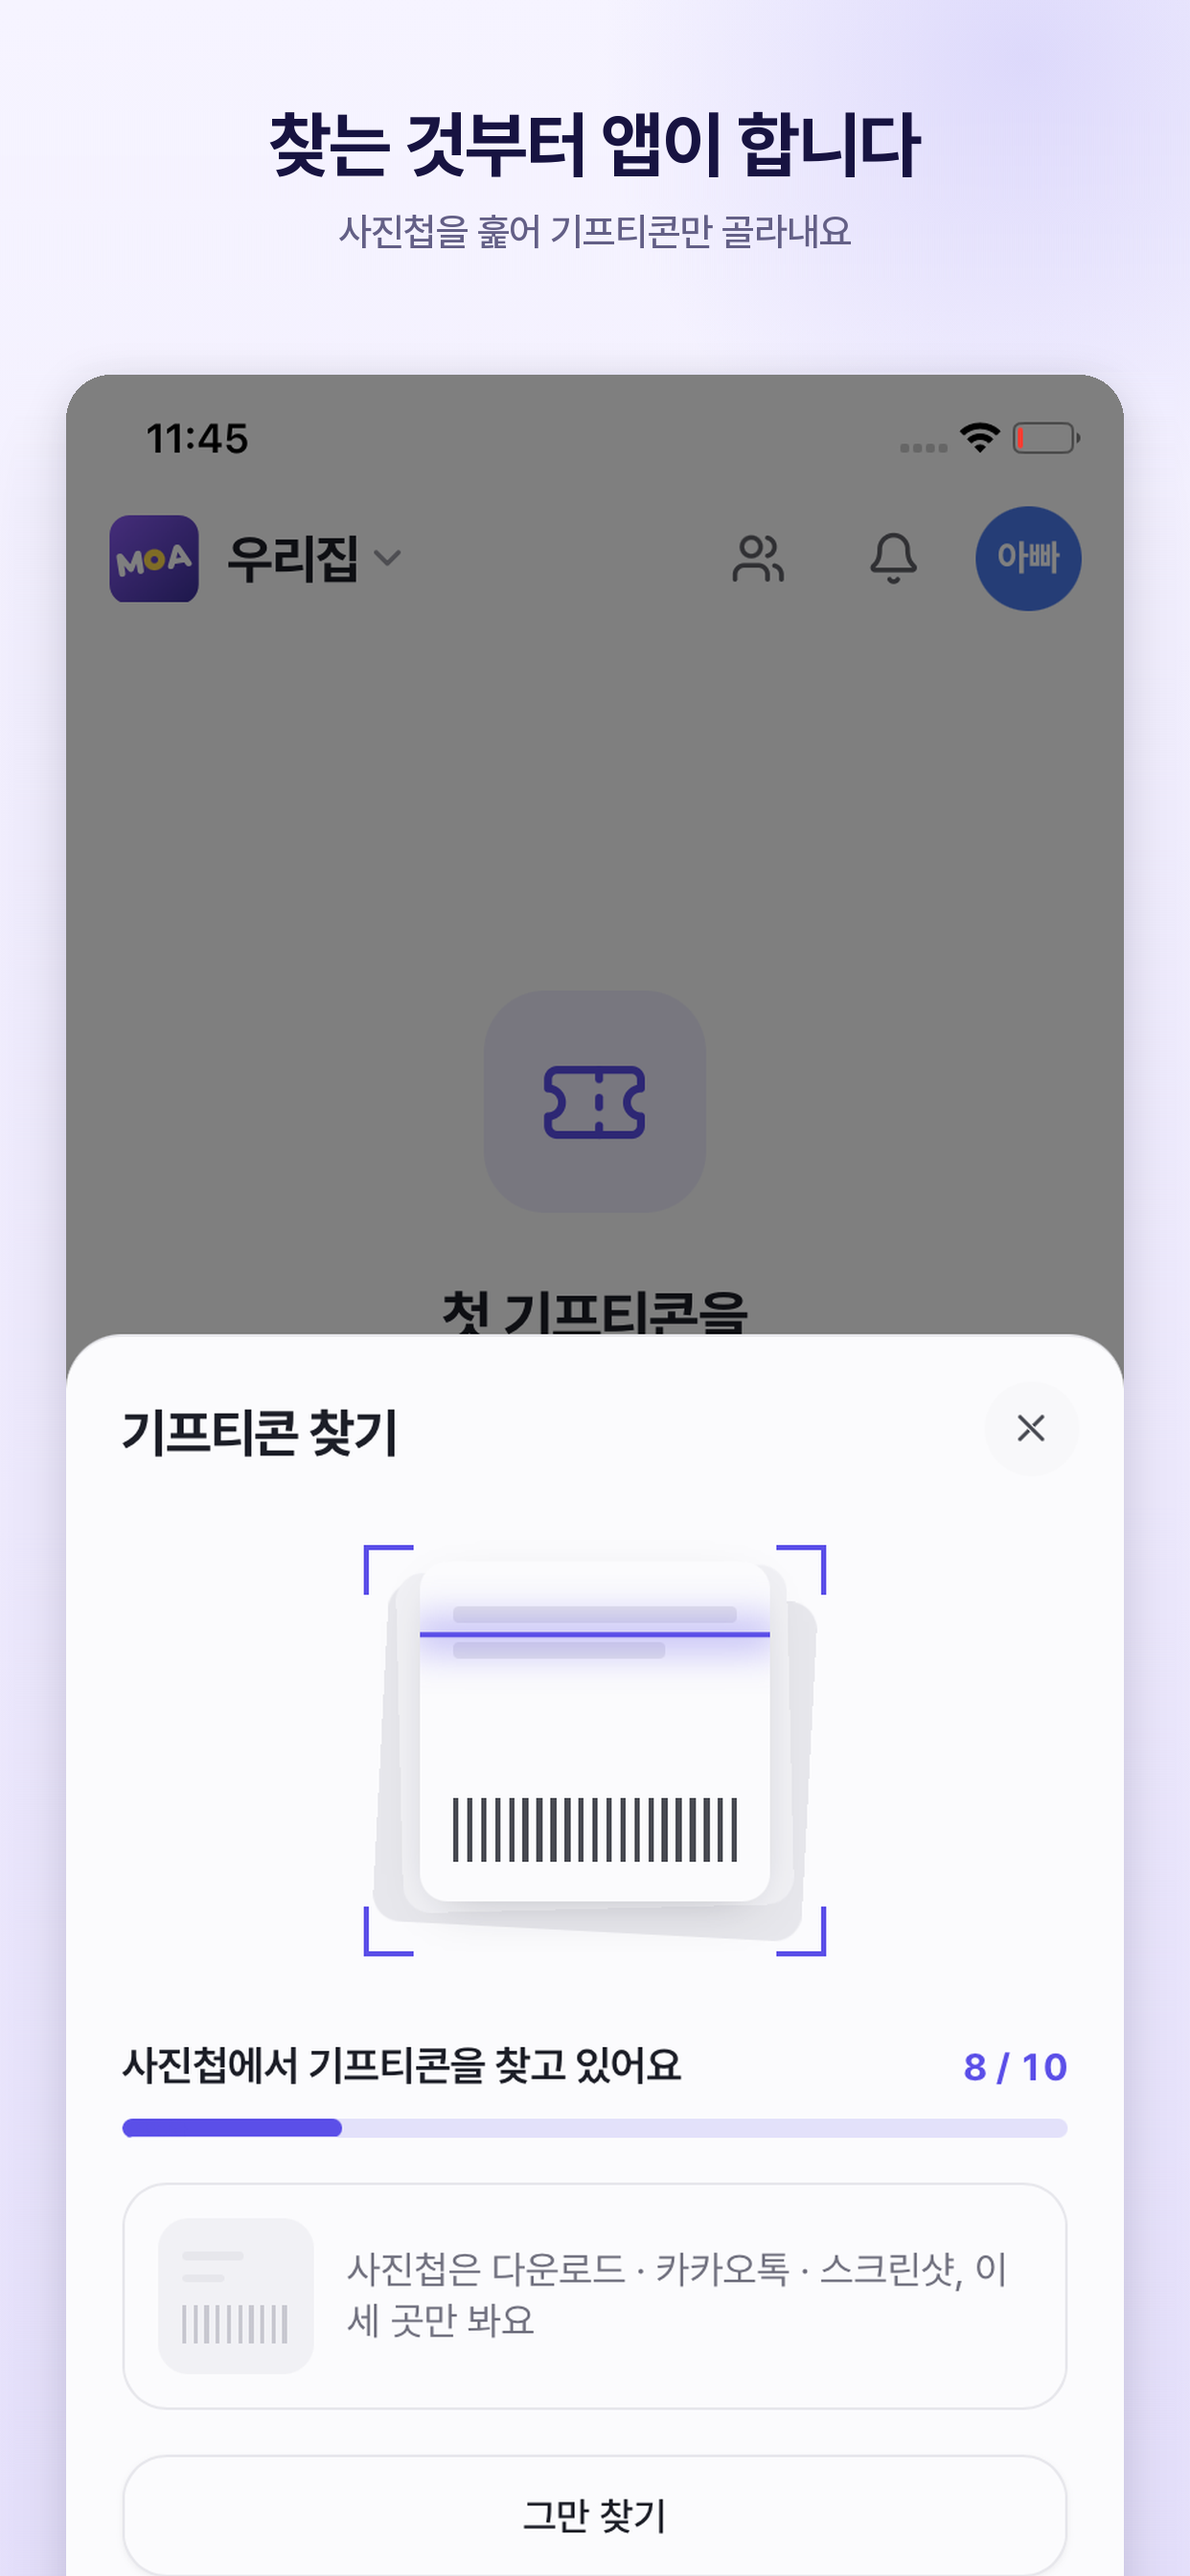
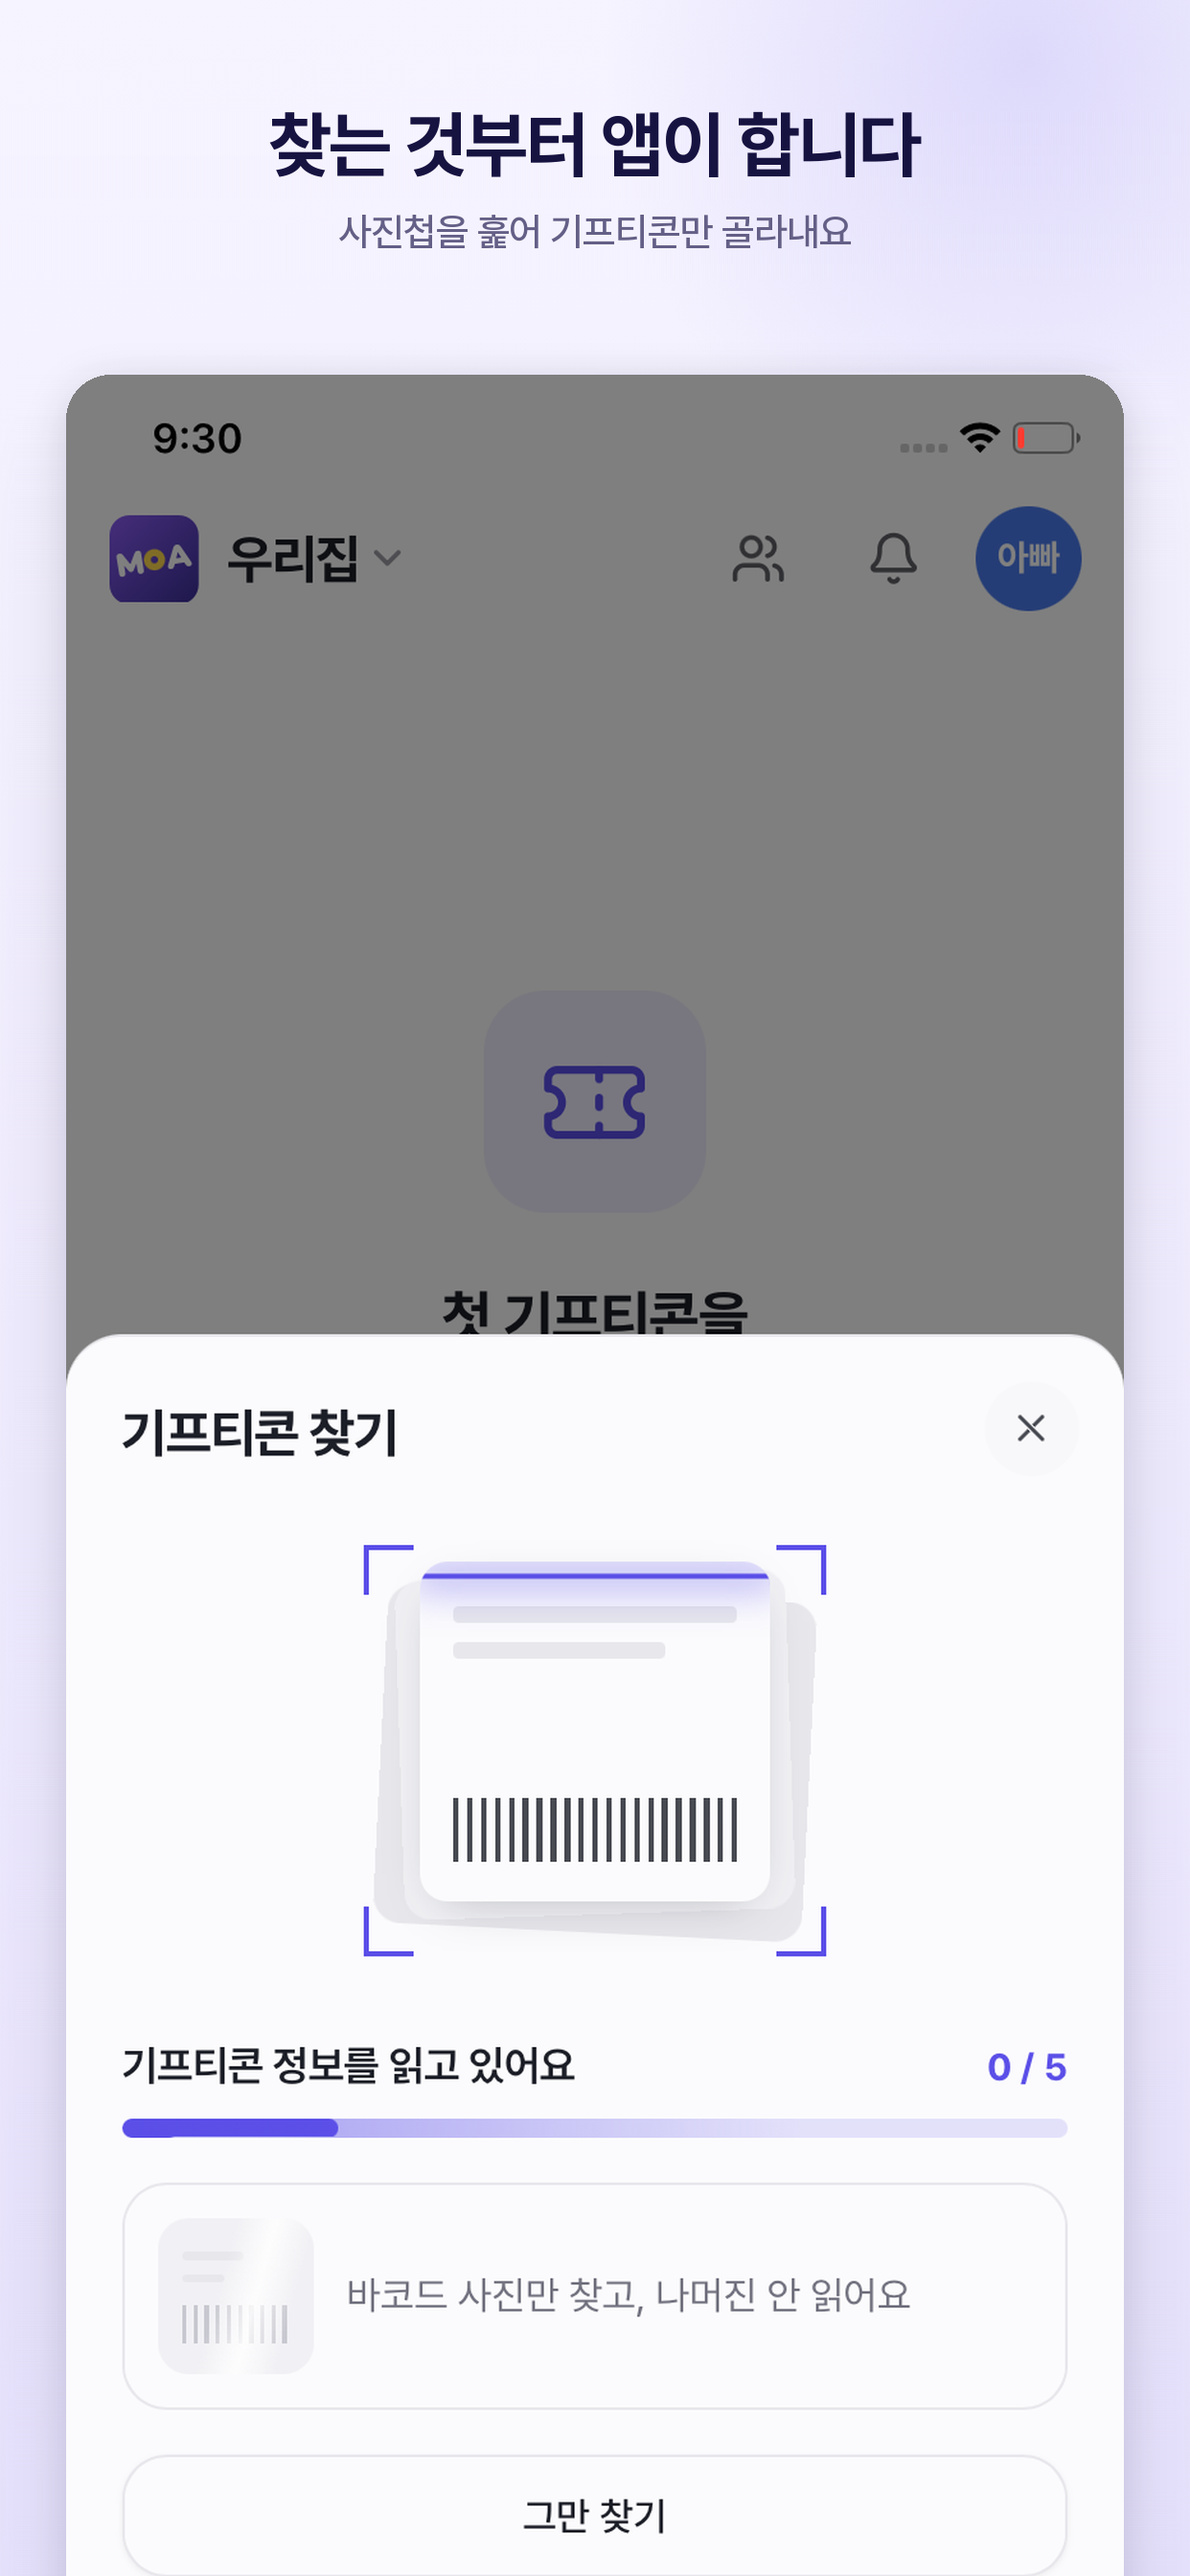
아이폰 스토어 스크린샷 2번을 고친 안내 문구로 다시 찍어 바꾼다
Claude-Session: https://claude.ai/code/session_0162SJJHihdyv8vNrHmvGXqM

diff --git a/docs/store-listing.md b/docs/store-listing.md
@@ -209,9 +209,9 @@ https://ceaser501.github.io/our-home-gift/privacy.html
 2026-09-28). 그 전에는 사진첩 훑기가 안드로이드에만 있어서 App Store는 2번을 빼고 7장이었다.
 이제 두 스토어 모두 8장이다.
 
-⚠ 지금 아이폰 2번 원본에는 「다운로드 · 카카오톡 · 스크린샷, 이 세 곳만 봐요」가 찍혀
-있다. 아이폰은 폴더 없이 설치일 이후 사진 전체를 보므로 그 줄은 아이폰에서 사실이 아니다.
-안내 문구를 고치면 다시 찍어 `raw/ios/02-scan.png`를 바꾸고 스크립트를 다시 돌린다.
+아이폰 2번에는 「바코드 사진만 찾고, 나머진 안 읽어요」가 찍혀 있다(2026-09-29 다시 찍음).
+처음 찍은 것에는 「다운로드 · 카카오톡 · 스크린샷, 이 세 곳만 봐요」가 있었는데, 아이폰은
+폴더 없이 설치일 이후 사진 전체를 보므로 거기서는 사실이 아니라 문구를 고치고 다시 찍었다.
 
 5번은 **참여 신청 알림만 실물이다.** 기한 만료 알림은 그 순간을 붙잡아야 찍을 수 있어서
 못 찍었고, 찍힌 카드를 알약 모양으로 오려 아래에 붙이고 글자만 다시 썼다. 아이콘·화살표·
